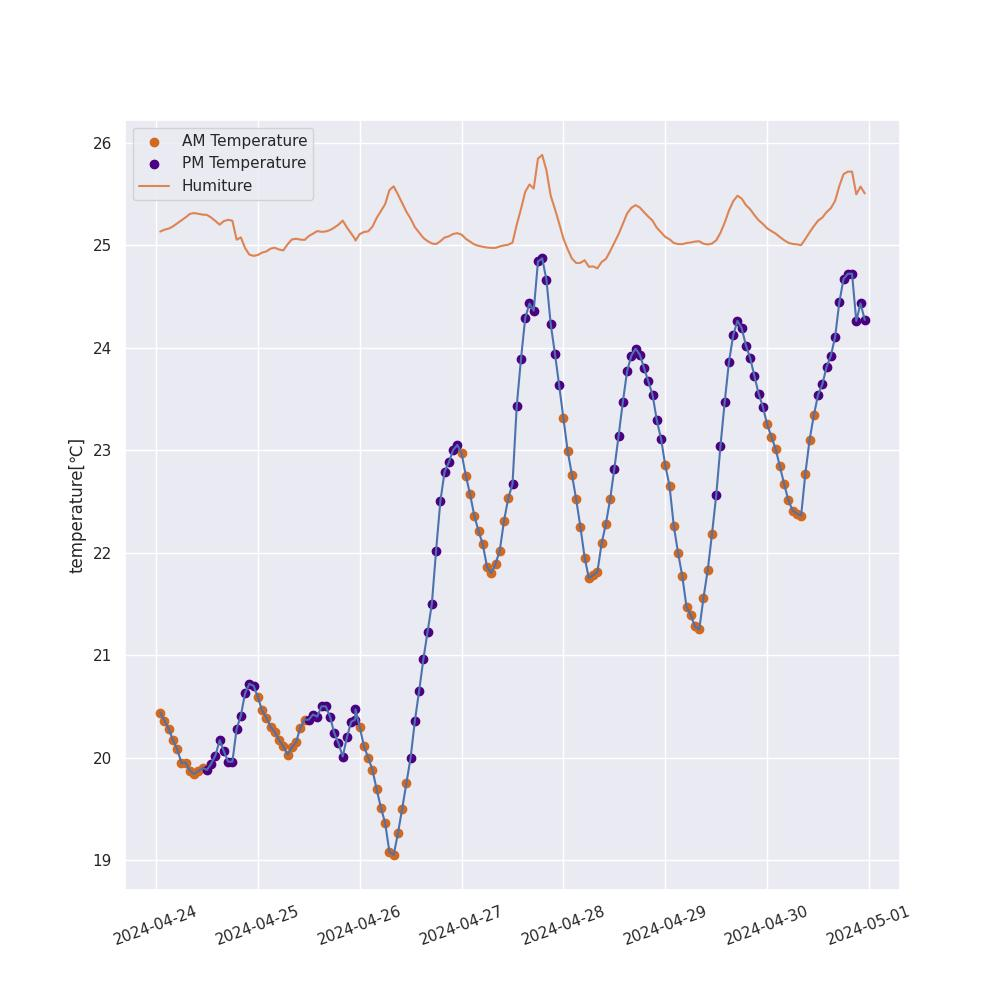
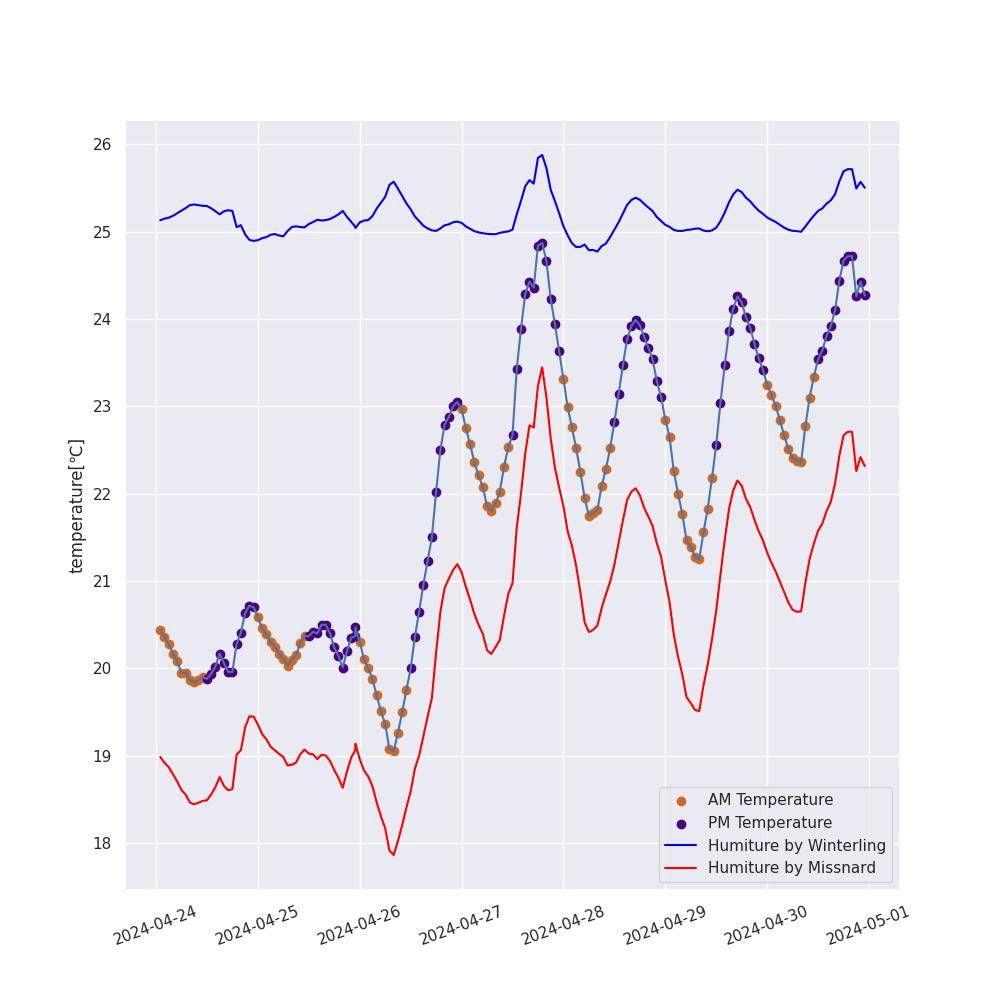
Update: 2024-04-30 23:38:18

diff --git a/create_plot.py b/create_plot.py
@@ -14,6 +14,12 @@ column_pressure = "Pressure"
 column_satelliteCount = "SatelliteCount"
 column_timestamp = "Timestamp"
 
+def celsius_to_fahrenheit(c):
+	return (c * (9 / 5)) + 32
+
+def fahrenheit_to_celsius(f):
+	return (f - 32) * 5 / 9
+
 def fetch_recent_data(db_path, table_name, column_name):
 	
 	# SQLiteデータベースに接続
@@ -85,27 +91,41 @@ plt.scatter(pm_x, pm_y, color='indigo', marker='o', label='PM Temperature')
 
 # 体感温度
 # George Winterling
-T = np.array(tempture)
+T = celsius_to_fahrenheit(np.array(tempture))
 H = np.array(humidity)
-HI = (-8.784695 + 1.61139411 * T + 2.338549 * H
-	- 0.14611605 * T * H - 0.012308094 * T**2
-	- 0.016424828 * H**2 + 0.002211732 * T**2 * H
-	+ 0.00072546 * T * H**2 - 0.000003582 * T**2 * H**2)
-plt.plot(x, HI, label='Humiture')
+
+# HI = (-8.784695 + 1.61139411 * T + 2.338549 * H
+	# - 0.14611605 * T * H - 0.012308094 * T**2
+	# - 0.016424828 * H**2 + 0.002211732 * T**2 * H
+	# + 0.00072546 * T * H**2 - 0.000003582 * T**2 * H**2)
+
+HI = (-42.379
+	+ 2.04901523 * T
+	+ 10.14333127 * H
+	- 0.22475541 * T * H
+	- 0.00683783 * T**2
+	- 0.05481717 * H**2
+	+ 0.00122874 * T**2 * H
+	+ 0.00085282 * T * H**2
+	- 0.00000199 * T**2 * H**2)
+	
+HI = fahrenheit_to_celsius(HI)
+plt.plot(x, HI, color='blue', label='Humiture by Winterling')
 HI_avg = str(int(np.mean(HI)))
-HI_avg = f"体感温度：{HI_avg}"
+HI_avg = f"体感温度1：{HI_avg}"
 print(HI_avg)
-plt.legend()
 
 # 体感温度
 # Missnard
-T_M = np.array(tempture)
+T = np.array(tempture)
 H = np.array(humidity)
-T_M= T_M+ 273.15
-M = T_M - (1 / 2.3) * (T_M - 10) * (0.8 - (H / 100))
-M = np.array(M) - 273.15
-print(M)
+M = T - (1 / 2.3) * (T - 10) * (0.8 - (H / 100))
+plt.plot(x, M, color='red', label='Humiture by Missnard')
+M_avg = str(int(np.mean(M)))
+M_avg = f"体感温度2：{M_avg}"
+print(M_avg)
 
+plt.legend()
 plt.savefig('/home/pi/Desktop/cotoha/cotoha-weather.github.io/image1.jpg')
 plt.clf()
 print('created image1')
